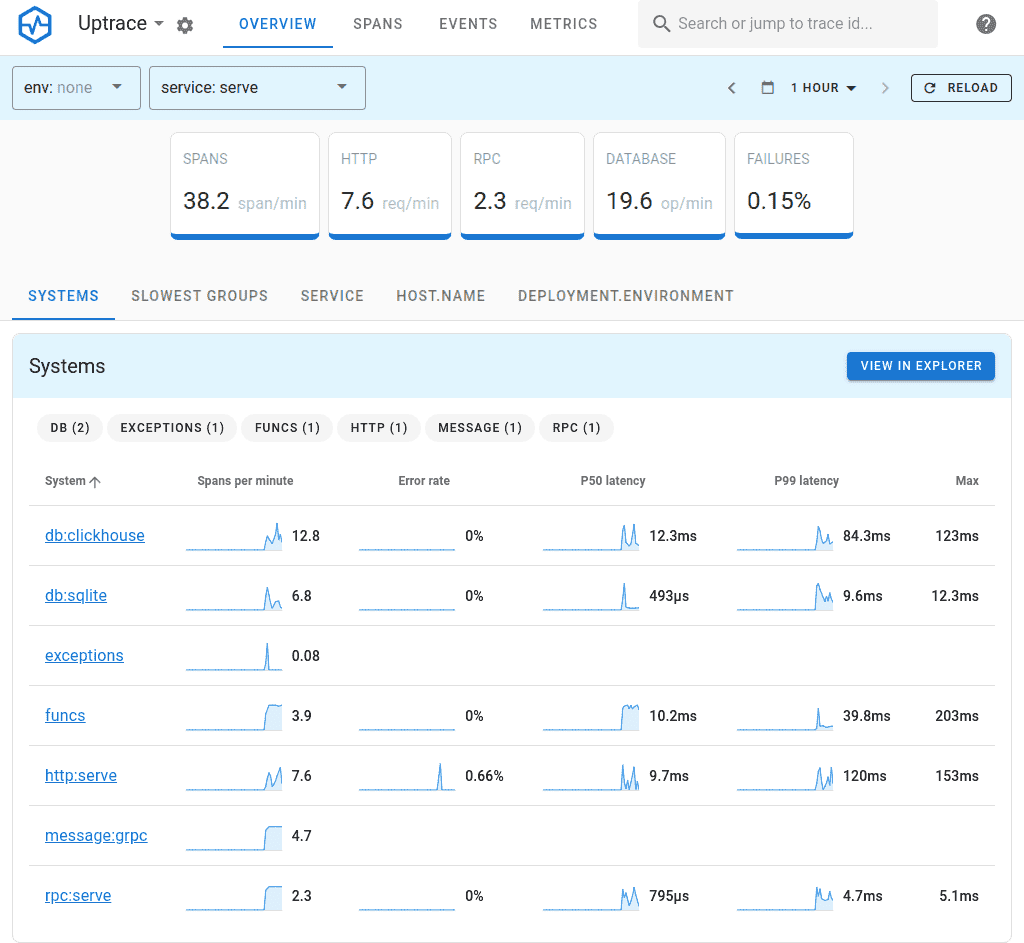
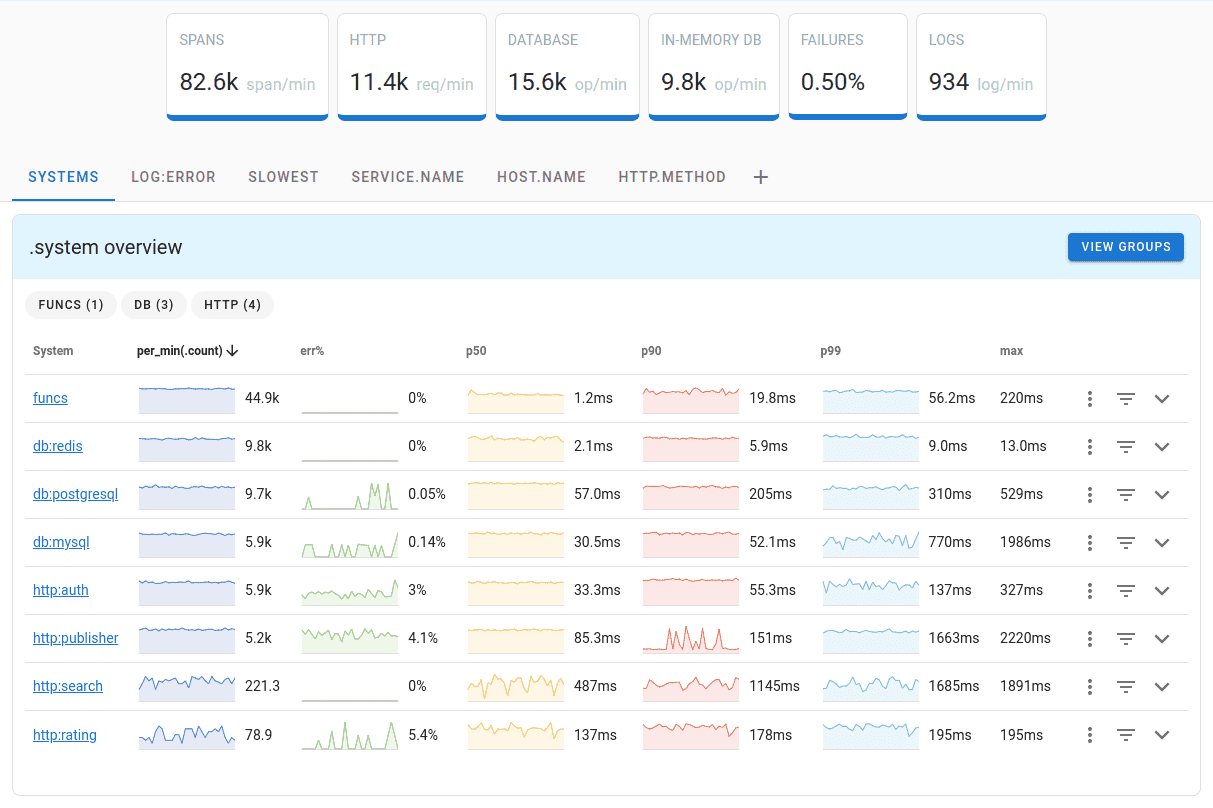
chore: update screenshots

diff --git a/README.md b/README.md
@@ -5,9 +5,9 @@ Languages: **English** | [简体中文](README.zh.md)
 [![build workflow](https://github.com/uptrace/uptrace/actions/workflows/build-and-test.yml/badge.svg)](https://github.com/uptrace/uptrace/actions)
 [![Chat](https://img.shields.io/badge/-telegram-red?color=white&logo=telegram&logoColor=black)](https://t.me/uptrace)
 
-Uptrace is an open-source APM tool that supports distributed tracing, metrics, and logs. You can use
-it to monitor applications and set up automatic alerts to receive notifications via email, Slack,
-Telegram, and more.
+Uptrace is an [open source APM](https://uptrace.dev/get/open-source-apm.html) that supports
+distributed tracing, metrics, and logs. You can use it to monitor applications and set up automatic
+alerts to receive notifications via email, Slack, Telegram, and more.
 
 Uptrace uses OpenTelelemetry to collect data and ClickHouse database to store it. Uptrace also
 requires PostgreSQL database to store metadata such as metric names and alerts.
@@ -24,18 +24,28 @@ requires PostgreSQL database to store metadata such as metric names and alerts.
 - Single sign-on (SSO) using OpenID Connect: [Keycloak](https://uptrace.dev/get/auth-keycloak.html),
   [Cloudflare](https://uptrace.dev/get/auth-cloudflare.html),
   [Google Cloud](https://uptrace.dev/get/auth-google.html), and others.
-- Integrations with [OpenTelemetry](https://uptrace.dev/get/ingest/opentelemetry.html),
+- Ingestion using [OpenTelemetry](https://uptrace.dev/get/ingest/opentelemetry.html),
   [Vector](https://uptrace.dev/get/ingest/vector.html),
   [FluentBit](https://uptrace.dev/get/ingest/fluent-bit.html),
   [CloudWatch](https://uptrace.dev/get/ingest/aws-cloudwatch.html), and more.
 - Efficient ingestion: more than 10K spans / second on a single core.
-- Excellent on-disk compression, for example, 1KB span can be compressed down to ~40 bytes.
+- Excellent on-disk compression: 1KB span can be compressed down to ~40 bytes.
 
-![Uptrace Home](./example/docker/images/home.png)
+**System overview**
 
-![Facetted filters](./example/docker/images/facets.png)
+![System overview](./example/docker/images/home.png)
 
-![Prometheus-like metrics](./example/docker/images/metrics.png)
+**Faceted filters**
+
+![Faceted filters](./example/docker/images/facets.png)
+
+**Metrics**
+
+![Metrics](./example/docker/images/metrics.png)
+
+**Alerts**
+
+![Alerts](./example/docker/images/alerts.png)
 
 ## Quickstart
 
